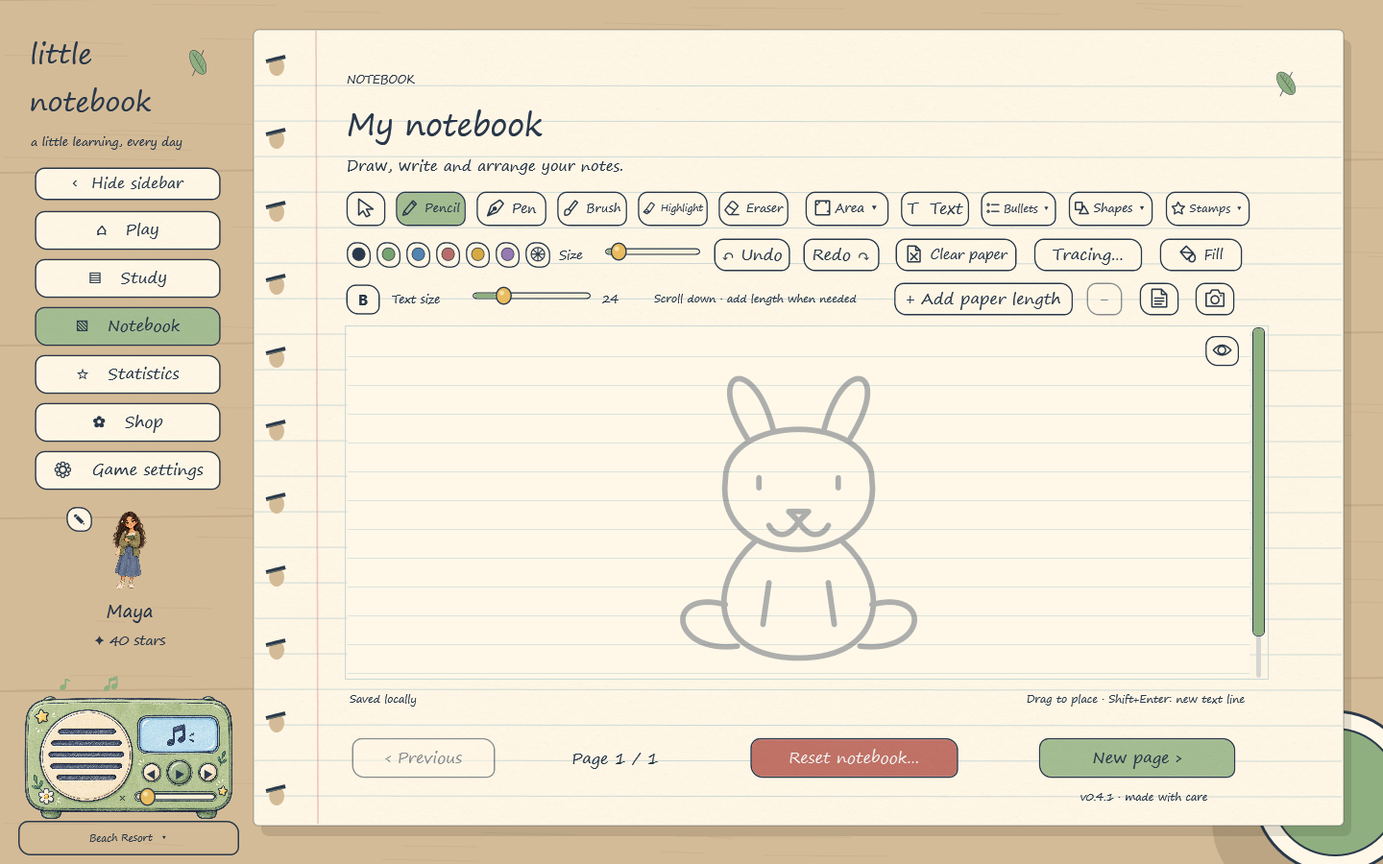
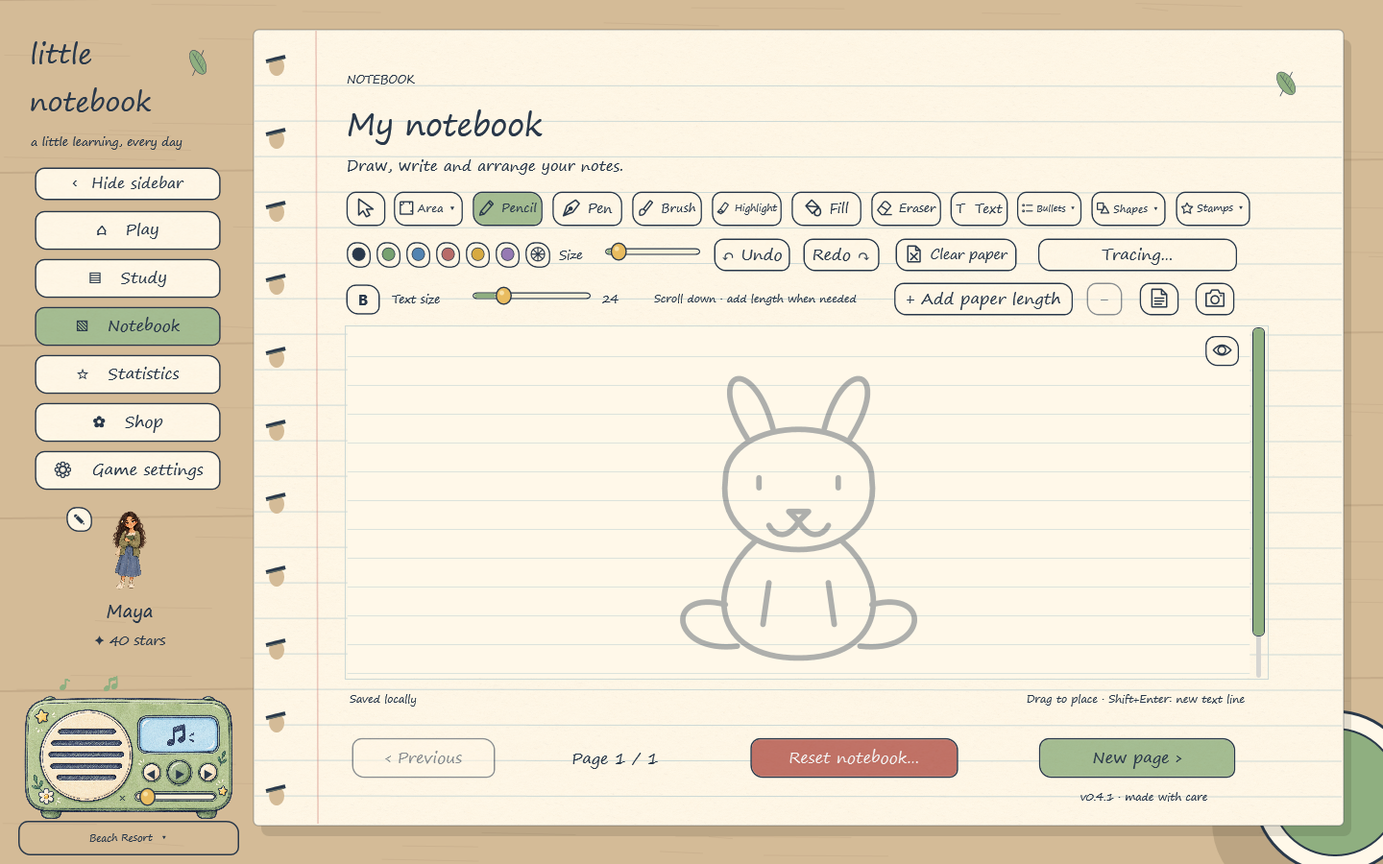
Preserve Play scrolling across controls and theme colours; refine notebook tools

Changed region(s): [[0.2812, 0.2178, 0.9062, 0.3111]]

diff --git a/tools/render_readme.cs b/tools/render_readme.cs
@@ -3,6 +3,12 @@ using System.Collections.Generic;
 using System.Linq;
 using System.Reflection;
 using System.Windows;
+using System.Windows.Automation;
+using System.Windows.Controls;
+using System.Windows.Ink;
+using System.Windows.Input;
+using System.Windows.Media;
+using System.Windows.Media.Imaging;
 using System.Windows.Threading;
 using LittleNotebook;
 
@@ -11,7 +17,64 @@ using LittleNotebook;
 static class ReadmeRenderer {
  static readonly BindingFlags Private = BindingFlags.Instance | BindingFlags.NonPublic;
  static void Set(MainWindow window, string name, object value) { typeof(MainWindow).GetField(name, Private).SetValue(window, value); }
- static void Call(MainWindow window, string name, params object[] values) { typeof(MainWindow).GetMethod(name, Private).Invoke(window, values); }
+ static object Get(MainWindow window,string name) { return typeof(MainWindow).GetField(name,Private).GetValue(window); }
+ static void Call(MainWindow window, string name, params object[] values) { typeof(MainWindow).GetMethods(Private).Single(m=>m.Name==name&&m.GetParameters().Length==values.Length).Invoke(window, values); }
+ static IEnumerable<T> Children<T>(DependencyObject root) where T:DependencyObject { for(int i=0;i<VisualTreeHelper.GetChildrenCount(root);i++){var child=VisualTreeHelper.GetChild(root,i);if(child is T)yield return (T)child;foreach(var nested in Children<T>(child))yield return nested;} }
+ static void Check(bool ok,string message) { if(!ok)throw new Exception(message); }
+ static void Click(Button button) { button.RaiseEvent(new RoutedEventArgs(Button.ClickEvent)); }
+ static Color ButtonColor(Button button) { var solid=button.Background as SolidColorBrush;if(solid!=null)return solid.Color;return ((SolidColorBrush)((GeometryDrawing)((DrawingGroup)((DrawingBrush)button.Background).Drawing).Children[0]).Brush).Color; }
+ static void CheckHomeControls(MainWindow window) {
+  foreach(string theme in new[]{"matcha","rose","sky","lavender","night"}) {
+   window.Profile.Settings.Theme=theme;window.Profile.Settings.Difficulty=3;Call(window,"Build");
+   var palette=new Palette(theme);Color expected=theme=="matcha"?Color.FromRgb(206,222,184):palette.Light;
+   var groups=(Dictionary<string,Dictionary<string,Button>>)Get(window,"questionTypeButtons");var body=(Canvas)Get(window,"body");
+   Check(groups.Values.SelectMany(x=>x.Values).All(b=>ButtonColor(b)==expected),"Question types do not follow theme: "+theme);
+   Check(ButtonColor(Children<Button>(body).Single(b=>Convert.ToString(b.Content)=="Mixed"))==expected,"Mixed does not follow theme: "+theme);
+   Check(ButtonColor(Children<Button>(body).Single(b=>Convert.ToString(b.Content)=="Start game  →"))==Color.FromRgb(139,255,22),"Start changed reference green");
+   Call(window,"Capture","qa-home-"+theme);
+  }
+  window.Profile.Settings.Theme="matcha";Call(window,"Build");window.UpdateLayout();
+  var scroll=(ScrollViewer)Get(window,"questionTypeScroll");scroll.ScrollToVerticalOffset(40);scroll.UpdateLayout();
+  Check(scroll.VerticalOffset==40,"Scroll test fixture did not move");
+  Action<Action> keep=action=>{action();var rebuilt=(ScrollViewer)Get(window,"questionTypeScroll");Check(Math.Abs(rebuilt.VerticalOffset-40)<.01,"Play control reset scroll before first render");window.Dispatcher.Invoke(new Action(()=>{}),DispatcherPriority.ApplicationIdle);Check(Math.Abs(rebuilt.VerticalOffset-40)<.01,"Play control changed scroll after layout");};
+  foreach(string name in new[]{"Easy","Medium","Hard","Mixed"}){string label=name;keep(()=>Click(Children<Button>((Canvas)Get(window,"body")).Single(b=>Convert.ToString(b.Content)==label)));}
+  keep(()=>Click(Children<Button>((Canvas)Get(window,"body")).Single(b=>AutomationProperties.GetName(b).StartsWith("Timer "))));
+  keep(()=>Click(Children<Button>((Canvas)Get(window,"body")).Single(b=>AutomationProperties.GetName(b).StartsWith("1 life:"))));
+  keep(()=>Call(window,"ToggleTopic","math"));keep(()=>Call(window,"ToggleTopic","mixed"));
+  keep(()=>{Call(window,"QuestionCountSettings");Click(Children<Button>((Canvas)Get(window,"overlay")).Single(b=>Convert.ToString(b.Content)=="15 questions"));});
+  keep(()=>Call(window,"ToggleSidebar"));keep(()=>Call(window,"ToggleSidebar"));
+  keep(()=>{Call(window,"RadioSelection");Call(window,"CloseModal");});
+  keep(()=>{Call(window,"Navigate","study");Call(window,"Navigate","home");});
+  scroll=(ScrollViewer)Get(window,"questionTypeScroll");scroll.ScrollToVerticalOffset(0);scroll.UpdateLayout();
+  window.Profile.Settings.Timer=true;window.Profile.Settings.SingleLife=false;window.Profile.Settings.HardSingleLife=null;window.Profile.Settings.RoundLength=10;
+  Console.WriteLine("PASS: all five theme palettes and 13 Play interactions retain scroll synchronously and after layout; no delayed scroll restore.");
+ }
+ static void CheckNotebookControls(MainWindow window) {
+  var body=(Canvas)Get(window,"body");var tools=(Dictionary<string,Button>)Get(window,"notebookTools");
+  var area=Children<Button>(body).Single(b=>AutomationProperties.GetName(b)=="Area menu");
+  Check(Canvas.GetLeft(tools["select"])<Canvas.GetLeft(area)&&Canvas.GetLeft(area)<Canvas.GetLeft(tools["pencil"]),"Area is not immediately after Select");
+  Check(Canvas.GetLeft(tools["highlighter"])<Canvas.GetLeft(tools["fill"])&&Canvas.GetLeft(tools["fill"])<Canvas.GetLeft(tools["eraser"]),"Fill is not immediately before Eraser");
+  Check(Canvas.GetTop(tools["fill"])==Canvas.GetTop(tools["pen"]),"Fill is outside drawing row");
+  Call(window,"NotebookColorWheel");window.UpdateLayout();var overlay=(Canvas)Get(window,"overlay");
+  var presets=Children<Button>(overlay).Where(b=>AutomationProperties.GetName(b).StartsWith("Preset colour: ")).ToList();
+  Check(presets.Count==12,"Missing extra colour presets");Click(presets.Single(b=>AutomationProperties.GetName(b)=="Preset colour: Pink"));
+  Check(Children<TextBox>(overlay).Single().Text=="#F4A8CB","Preset did not update colour controls");
+  Click(Children<Button>(overlay).Single(b=>Convert.ToString(b.Content)=="Use colour"));
+  Check(window.Profile.Settings.RecentColors.First()=="#FFF4A8CB","Preset did not enter recent colours");
+  Call(window,"NotebookColorWheel");Call(window,"Capture","qa-extra-colours");Call(window,"CloseModal");
+  var drawing=new DrawingVisual();using(var dc=drawing.RenderOpen()){dc.DrawRectangle(Brushes.LightSkyBlue,null,new Rect(0,0,240,160));dc.DrawEllipse(Brushes.White,new Pen(Brushes.DarkSlateGray,3),new Point(120,80),65,50);}
+  var bitmap=new RenderTargetBitmap(240,160,96,96,PixelFormats.Pbgra32);bitmap.Render(drawing);
+  Call(window,"EditImportedTracing",bitmap);window.UpdateLayout();overlay=(Canvas)Get(window,"overlay");
+  var photo=Children<Image>(overlay).Single();var ink=Children<SmoothInkCanvas>(overlay).Single();
+  var eye=Children<Button>(overlay).Single(b=>AutomationProperties.GetName(b)=="Show or hide original photo");
+  Check(photo.Visibility==Visibility.Collapsed,"Original photo should start hidden");int count=ink.Strokes.Count;Click(eye);
+  var surface=(Grid)photo.Parent;Check(photo.Visibility==Visibility.Visible&&surface.Children.IndexOf(photo)<surface.Children.IndexOf(ink),"Original photo is not beneath tracing");
+  Children<Slider>(overlay).Single(s=>s.Maximum==880).Value=480;
+  Check(photo.Width==ink.Width&&photo.Height==ink.Height&&photo.Width==480&&photo.Height==320,"Photo/tracing lost alignment during resize");
+  ink.Strokes.Add(new Stroke(new StylusPointCollection(new[]{new StylusPoint(10,10),new StylusPoint(30,30)})));
+  Click(eye);Check(photo.Visibility==Visibility.Collapsed&&ink.Strokes.Count==count+1,"Eye toggle discarded tracing edits");Click(eye);Call(window,"Capture","qa-original-photo");Call(window,"CloseModal");
+  Console.WriteLine("PASS: 10 focused notebook checks: tool ordering, colour presets/hex/recent colours, original-photo visibility, layer order, aligned resize and retained edits.");
+ }
  static void Scene(MainWindow window, string page, string image) { Set(window, "page", page); Call(window, "Build"); Call(window, "Capture", "public-" + image); }
  [STAThread] static int Main() {
   Diagnostics.Testing = true;
@@ -24,6 +87,7 @@ static class ReadmeRenderer {
     window.Profile.Settings.Music = false; window.Profile.Settings.Sound = false; window.Profile.Settings.Volume = 0;
     Scene(window, "welcome", "setup");
     Set(window, "selectedTopic", "mixed"); window.Profile.Settings.Difficulty = 3;
+    Set(window,"page","home");Call(window,"Build");CheckHomeControls(window);
     Scene(window, "home", "home");
     var bank = (QuestionBank)typeof(MainWindow).GetField("bank", Private).GetValue(window);
     var question = bank.Questions.First(q => q.Kind == "order" && q.Difficulty == 1);
@@ -33,6 +97,7 @@ static class ReadmeRenderer {
     window.Profile.Notebook = new List<NotebookPage> { new NotebookPage { Template = "rabbit-body" } };
     window.Profile.NotebookIndex = 0;
     Scene(window, "notebook", "notebook");
+    CheckNotebookControls(window);
     Console.WriteLine("Rendered setup, Play, gameplay and notebook with Maya.");
    } catch(Exception error) { Console.Error.WriteLine(error); Environment.ExitCode = 1; }
    finally { Set(window, "game", null); Set(window, "closing", true); window.Close(); }

diff --git a/src/MainWindow.cs b/src/MainWindow.cs
@@ -88,6 +88,7 @@ namespace LittleNotebook {
   void TypingFeedback(object sender,TextChangedEventArgs e){var input=e.OriginalSource as TextBox;if(input!=null&&input.IsKeyboardFocusWithin&&!input.IsReadOnly&&e.Changes.Any(change=>change.AddedLength>0||change.RemovedLength>0))audio.Typing();}
   Image Avatar(int n,double h,double w=double.NaN){return new Image{Source=CharacterArt.Get(n),Height=h,Width=w,Stretch=Stretch.Uniform};}
   void Build(){
+   RememberQuestionTypeScroll();questionTypeScroll=null;
    if(notebookPopup!=null)notebookPopup.IsOpen=false;
    FlushNotebook();notebookInk=null;
    modalEnabled.Clear();
@@ -157,7 +158,7 @@ namespace LittleNotebook {
   }
   string CategoryName(string key){switch(key){case "all":return T("All","الكل");case "vocabulary":return T("Vocabulary","المفردات");case "spelling":return T("Spelling","الإملاء");case "sentences":return T("Sentences","الجمل");case "listening":return T("Listening","الاستماع");case "word-pairs":return T("Word pairs","أزواج الكلمات");case "word-search":return T("Word search","الكلمات المخفية");case "memory":return T("Memory","الذاكرة");case "patterns":return T("Patterns","الأنماط");case "logic":return T("Logic","المنطق");case "science":return T("Science","العلوم");case "nature":return T("Nature","الطبيعة");case "world":return T("World","العالم");case "everyday":return T("Everyday","الحياة اليومية");case "addition":return T("Addition","الجمع");case "subtraction":return T("Subtraction","الطرح");case "multiplication":return T("Multiplication","الضرب");case "division":return T("Division","القسمة");case "word-problems":return T("Word problems","مسائل لفظية");case "mixed-operations":return T("Mixed operations","عمليات مختلطة");default:return System.Globalization.CultureInfo.InvariantCulture.TextInfo.ToTitleCase(key.Replace('-',' '));}}
   ScrollViewer questionTypeScroll;double questionTypeScrollOffset;Dictionary<string,Dictionary<string,Button>> questionTypeButtons=new Dictionary<string,Dictionary<string,Button>>();
-  Color SoftSelectionColor(){return Profile.Settings.Theme=="matcha"?Color.FromRgb(206,222,184):Color.FromRgb(195,178,215);}
+  Color SoftSelectionColor(){return Profile.Settings.Theme=="matcha"?Color.FromRgb(206,222,184):p.Light;}
   void StyleQuestionTypeButton(Button button,bool selected){button.Background=Sketch.Textured(selected?SoftSelectionColor():p.Paper);button.Foreground=B(p.Ink);button.FontWeight=selected?FontWeights.SemiBold:FontWeights.Normal;}
   void RefreshQuestionTypeHighlights(){foreach(var topic in questionTypeButtons)foreach(var entry in topic.Value)StyleQuestionTypeButton(entry.Value,TypeSelected(topic.Key,entry.Key));}
   Color DifficultyColor(int level){return new[]{Color.FromRgb(139,185,193),Color.FromRgb(224,188,112),Color.FromRgb(208,144,143),SoftSelectionColor()}[level];}
@@ -179,7 +180,9 @@ namespace LittleNotebook {
    var icons=new[]{"book","math","brain","sun"};for(int i=0;i<4;i++){string topic=PlayTopics[i];bool selected=SelectedTopics.Contains(topic);var button=Button("",()=>ToggleTopic(topic),367,62,selected);var c=new Canvas{Width=333,Height=51};Put(c,new Sketch(icons[i],selected?p.OnAccent():p,39,39),Ar?282:6,4);Label(c,Topic(topic),Ar?6:62,9,21,265).Foreground=B(selected?p.AccentInk:p.Ink);button.Content=c;AutomationProperties.SetName(button,Topic(topic));Put(body,button,98+(Ar?1-i%2:i%2)*394,202+(i/2)*75);}
    Label(body,T("Question types","أنواع الأسئلة"),99,352,15,760);
    var groups=new StackPanel{Width=750};foreach(string item in SelectedTopics){string topic=item;var topicButtons=new Dictionary<string,Button>();questionTypeButtons[topic]=topicButtons;var row=new StackPanel{Width=742,Margin=new Thickness(0,0,0,8)};row.Children.Add(Text(Topic(topic),15,730));var types=new WrapPanel{Width=736,FlowDirection=Ar?FlowDirection.RightToLeft:FlowDirection.LeftToRight};foreach(string key in QuestionCatalog.Categories(bank,topic,Profile.Settings.Difficulty)){string category=key,label=CategoryName(key);var button=Button(label,()=>ToggleTopicCategory(topic,category),Math.Max(62,Math.Min(153,label.Length*8+24)),32,TypeSelected(topic,key));button.Margin=new Thickness(0,0,5,5);button.FontSize=14*Profile.Settings.TextScale;StyleQuestionTypeButton(button,TypeSelected(topic,key));topicButtons[key]=button;types.Children.Add(button);}row.Children.Add(types);groups.Children.Add(row);}
-   double height=SelectedTopics.Length==1?100:153;var scroll=new ScrollViewer{Width=773,Height=height,Content=groups,VerticalScrollBarVisibility=ScrollBarVisibility.Auto,HorizontalScrollBarVisibility=ScrollBarVisibility.Disabled};StylePaperScroll(scroll);Put(body,scroll,99,381);questionTypeScroll=scroll;double restoreOffset=questionTypeScrollOffset;Dispatcher.BeginInvoke(new Action(()=>{if(questionTypeScroll==scroll)scroll.ScrollToVerticalOffset(restoreOffset);}),DispatcherPriority.Loaded);
+   double height=SelectedTopics.Length==1?100:153;var scroll=new ScrollViewer{Width=773,Height=height,Content=groups,VerticalScrollBarVisibility=ScrollBarVisibility.Auto,HorizontalScrollBarVisibility=ScrollBarVisibility.Disabled};StylePaperScroll(scroll);Put(body,scroll,99,381);questionTypeScroll=scroll;
+   // Restore before the rebuilt screen can render, rather than jumping after Loaded.
+   scroll.ApplyTemplate();scroll.Measure(new Size(773,height));scroll.Arrange(new Rect(0,0,773,height));scroll.UpdateLayout();scroll.ScrollToVerticalOffset(questionTypeScrollOffset);scroll.UpdateLayout();
    double controlsY=381+height+14;for(int i=0;i<4;i++){int level=i;bool selected=Profile.Settings.Difficulty==i;var difficulty=Button(Difficulty(i),()=>{RememberQuestionTypeScroll();Profile.Settings.Difficulty=level;Save();Build();},129,42);difficulty.Background=Sketch.Textured(selected?DifficultyColor(i):PaleDifficulty(i));difficulty.FontWeight=selected?FontWeights.Bold:FontWeights.Normal;Put(body,difficulty,Ar?625-i*139:196+i*139,controlsY);}
    Put(body,TimerToggle(),Ar?640:128,controlsY+57);Put(body,PaperToggle(T("1 life","حياة واحدة"),Profile.Settings.OneLife(),()=>{if(Profile.Settings.Difficulty==2)Profile.Settings.HardSingleLife=!Profile.Settings.OneLife();else Profile.Settings.SingleLife=!Profile.Settings.SingleLife;Save();Build();}),Ar?425:343,controlsY+57);Btn(body,QuestionCountText()+"  ▾",Ar?141:551,controlsY+57,QuestionCountSettings,266,43);
    Label(body,(Profile.Settings.OneLife()?T("1 life","حياة واحدة"):T("3 lives","3 محاولات"))+"  ·  "+QuestionCountText(),99,controlsY+106,14,760).TextAlignment=TextAlignment.Center;var start=Button(T("Start game  →","ابدأ اللعبة  ←"),StartGame,344,50,true);start.Background=new SolidColorBrush(Color.FromRgb(139,255,22));start.Foreground=B(Color.FromRgb(41,56,74));Put(body,start,307,controlsY+135);

diff --git a/src/TraceImport.cs b/src/TraceImport.cs
@@ -2,6 +2,7 @@ using System;
 using System.Collections.Generic;
 using System.Linq;
 using System.Windows;
+using System.Windows.Automation;
 using System.Windows.Controls;
 using System.Windows.Ink;
 using System.Windows.Input;
@@ -30,10 +31,13 @@ namespace LittleNotebook {
    double width=Math.Min(820,image.PixelWidth),threshold=45;double height=width*image.PixelHeight/image.PixelWidth;var originals=PhotoTracing.Extract(image,threshold,p.Ink);var strokes=originals.Clone();strokes.Transform(new Matrix(width/image.PixelWidth,0,0,width/image.PixelWidth,0,0),false);SmoothInkCanvas ink=null;var undo=new Stack<string>();bool changing=false;
    Modal(T("Adjust imported tracing","تعديل القالب المستورد"),c=>{
     Label(c,T("Adjust detail and size. Use the pen or eraser before placing.","اضبط التفاصيل والحجم. عدّل بالقلم والممحاة قبل الوضع."),94,102,16,610);
-    var surface=new Grid{Width=width,Height=height,Background=B(p.Paper)};ink=new SmoothInkCanvas{Width=width,Height=height,Strokes=strokes,Background=Brushes.Transparent,DefaultDrawingAttributes=new DrawingAttributes{Color=p.Ink,Width=1.6,Height=1.6,FitToCurve=true,IgnorePressure=true},Opacity=.60,EraserShape=new EllipseStylusShape(18,18)};surface.Children.Add(ink);var scroll=new ScrollViewer{Width=650,Height=357,Content=surface,HorizontalScrollBarVisibility=ScrollBarVisibility.Auto,VerticalScrollBarVisibility=ScrollBarVisibility.Auto};StylePaperScroll(scroll);Put(c,scroll,82,150);
+    var surface=new Grid{Width=width,Height=height,Background=B(p.Paper)};
+    var photo=new Image{Source=image,Width=width,Height=height,Stretch=Stretch.Fill,Opacity=.65,Visibility=Visibility.Collapsed,IsHitTestVisible=false};surface.Children.Add(photo);
+    ink=new SmoothInkCanvas{Width=width,Height=height,Strokes=strokes,Background=Brushes.Transparent,DefaultDrawingAttributes=new DrawingAttributes{Color=p.Ink,Width=1.6,Height=1.6,FitToCurve=true,IgnorePressure=true},Opacity=.60,EraserShape=new EllipseStylusShape(18,18)};surface.Children.Add(ink);var scroll=new ScrollViewer{Width=650,Height=357,Content=surface,HorizontalScrollBarVisibility=ScrollBarVisibility.Auto,VerticalScrollBarVisibility=ScrollBarVisibility.Auto};StylePaperScroll(scroll);Put(c,scroll,82,150);
+    Button originalEye=null;originalEye=NotebookIconButton("eye",T("Show or hide original photo","إظهار الصورة الأصلية أو إخفاؤها"),()=>{bool show=photo.Visibility!=Visibility.Visible;photo.Visibility=show?Visibility.Visible:Visibility.Collapsed;ink.Opacity=show?1:.60;originalEye.Background=Sketch.Textured(show?p.Accent:p.Paper);originalEye.ToolTip=show?T("Hide original photo","إخفاء الصورة الأصلية"):T("Show original photo","إظهار الصورة الأصلية");},38,34);originalEye.ToolTip=T("Show original photo","إظهار الصورة الأصلية");Put(c,originalEye,675,158);
     ink.Starting+=()=>undo.Push(EncodeInk(ink.Strokes));Btn(c,T("Pen","قلم"),94,523,()=>ink.EditingMode=InkCanvasEditingMode.Ink,107,37,true);Btn(c,T("Eraser","ممحاة"),214,523,()=>ink.EditingMode=InkCanvasEditingMode.EraseByPoint,119,37);Btn(c,T("Undo","تراجع"),347,523,()=>{if(undo.Count>0)ink.Strokes=DecodeInk(undo.Pop());},108,37);
     Label(c,T("Detail","التفاصيل"),94,580,15,100);var detail=PaperSlider(10,130,threshold,203);Put(c,detail,175,573);Label(c,T("Width","العرض"),405,580,15,88);var scale=PaperSlider(120,880,width,194);Put(c,scale,492,573);
-    var regenerate=new DispatcherTimer{Interval=TimeSpan.FromMilliseconds(300)};regenerate.Tick+=(s,e)=>{regenerate.Stop();if(overlay.Children.Count==0)return;undo.Push(EncodeInk(ink.Strokes));var outlines=PhotoTracing.Extract(image,detail.Value,p.Ink);outlines.Transform(new Matrix(width/image.PixelWidth,0,0,width/image.PixelWidth,0,0),false);ink.Strokes=outlines;};detail.ValueChanged+=(s,e)=>{regenerate.Stop();regenerate.Start();};scale.ValueChanged+=(s,e)=>{if(changing)return;double next=scale.Value;ink.Strokes.Transform(new Matrix(next/width,0,0,next/width,0,0),false);width=next;height=width*image.PixelHeight/image.PixelWidth;surface.Width=ink.Width=width;surface.Height=ink.Height=height;};
+    var regenerate=new DispatcherTimer{Interval=TimeSpan.FromMilliseconds(300)};regenerate.Tick+=(s,e)=>{regenerate.Stop();if(overlay.Children.Count==0)return;undo.Push(EncodeInk(ink.Strokes));var outlines=PhotoTracing.Extract(image,detail.Value,p.Ink);outlines.Transform(new Matrix(width/image.PixelWidth,0,0,width/image.PixelWidth,0,0),false);ink.Strokes=outlines;};detail.ValueChanged+=(s,e)=>{regenerate.Stop();regenerate.Start();};scale.ValueChanged+=(s,e)=>{if(changing)return;double next=scale.Value;ink.Strokes.Transform(new Matrix(next/width,0,0,next/width,0,0),false);width=next;height=width*image.PixelHeight/image.PixelWidth;surface.Width=ink.Width=photo.Width=width;surface.Height=ink.Height=photo.Height=height;};
     Label(c,T("Changing detail regenerates the outline; make pen edits afterwards.","تغيير التفاصيل يعيد إنشاء القالب؛ أضف تعديلات القلم بعد ذلك."),94,626,13,595);
     Btn(c,T("Cancel","إلغاء"),100,682,()=>{regenerate.Stop();NotebookTemplates();},266,47);Btn(c,T("Place tracing","وضع القالب"),399,682,()=>{regenerate.Stop();CloseModal();BeginNotebookChange();CurrentNotebookPage.Template="imported";CurrentNotebookPage.TraceInk=EncodeInk(ink.Strokes);CurrentNotebookPage.TraceWidth=width;CurrentNotebookPage.TraceHeight=height;CurrentNotebookPage.TraceVisible=true;CurrentNotebookPage.Height=Math.Min(12000,Math.Max(CurrentNotebookPage.Height,height+70));ResizeNotebookSurface();RefreshNotebookGuide();CommitNotebookChange();},296,47,true);
    },779);

diff --git a/src/NotebookSurface.cs b/src/NotebookSurface.cs
@@ -17,22 +17,21 @@ namespace LittleNotebook {
    ProfileFeatures.Normalize(Profile);Header(T("NOTEBOOK","دفتر الرسم"),paperDesignDraft!=null?T("Edit background paper","تعديل ورقة الخلفية"):T("My notebook","دفتري"),T("Draw, write and arrange your notes.","ارسم واكتب ورتّب ملاحظاتك."));
    if(notebookPageId!=CurrentNotebookPage.Id){notebookUndo.Clear();notebookRedo.Clear();}notebookPageId=CurrentNotebookPage.Id;
    notebookEditing=null;notebookTools.Clear();
-   string[] tools={"pencil","pen","brush","highlighter","eraser"};string[] names={T("Pencil","رصاص"),T("Pen","قلم"),T("Brush","فرشاة"),T("Highlight","تظليل"),T("Eraser","ممحاة")};
-   for(int i=0;i<tools.Length;i++){string tool=tools[i];var b=NotebookIconButton(tool,names[i],()=>ConfigureNotebookTool(tool),79,39);notebookTools[tool]=b;Put(body,b,58+i*84,126);}
+   string[] tools={"pencil","pen","brush","highlighter","fill","eraser"};string[] names={T("Pencil","رصاص"),T("Pen","قلم"),T("Brush","فرشاة"),T("Highlight","تظليل"),T("Fill","تعبئة"),T("Eraser","ممحاة")};
+   for(int i=0;i<tools.Length;i++){string tool=tools[i];var b=NotebookIconButton(tool,names[i],()=>ConfigureNotebookTool(tool),79,39);notebookTools[tool]=b;Put(body,b,138+i*83,126);}
    var select=NotebookIconButton("cursor",T("Select","تحديد"),()=>ConfigureNotebookTool("select"),44,39);notebookTools["select"]=select;Put(body,select,8,126);
-   Put(body,NotebookDropdown("selection",T("Area","منطقة"),"selection",94),484,126);
-   var text=Button(T("T  Text","T نص"),()=>ConfigureNotebookTool("text"),77,39);notebookTools["text"]=text;Put(body,text,584,126);
-   Put(body,NotebookDropdown("bullet",T("Bullets","تعداد"),"bullet",85),667,126);
-   Put(body,NotebookDropdown("shape",T("Shapes","أشكال"),"shapes",95),758,126);
-   Put(body,NotebookDropdown("stamp",T("Stamps","طوابع"),"stamps",95),859,126);
+   Put(body,NotebookDropdown("selection",T("Area","منطقة"),"selection",78),56,126);
+   var text=Button(T("T  Text","T نص"),()=>ConfigureNotebookTool("text"),65,39);notebookTools["text"]=text;Put(body,text,636,126);
+   Put(body,NotebookDropdown("bullet",T("Bullets","تعداد"),"bullet",73),705,126);
+   Put(body,NotebookDropdown("shape",T("Shapes","أشكال"),"shapes",84),782,126);
+   Put(body,NotebookDropdown("stamp",T("Stamps","طوابع"),"stamps",84),870,126);
    Color[] colors={Color.FromRgb(41,56,74),Color.FromRgb(119,161,112),Color.FromRgb(83,132,177),Color.FromRgb(184,108,105),Color.FromRgb(215,170,65),Color.FromRgb(150,122,179)};
    for(int i=0;i<colors.Length;i++){Color color=colors[i];var b=Button("",()=>{notebookColor=color;ConfigureNotebookTool(notebookTool);},27,29);b.Content=new Ellipse{Width=18,Height=18,Fill=B(color),Stroke=B(p.Ink),StrokeThickness=1};AutomationProperties.SetName(b,T("Drawing colour ","لون الرسم ")+(i+1));Put(body,b,9+i*31,179);}
    Put(body,NotebookIconButton("colors",T("Custom colour wheel","عجلة الألوان"),NotebookColorWheel,28,29),195,179);
    Label(body,T("Size","الحجم"),231,182,14,45);var size=PaperSlider(1,30,notebookSize,99);AutomationProperties.SetName(size,T("Drawing size","حجم الرسم"));size.ValueChanged+=(s,e)=>{notebookSize=size.Value;ConfigureNotebookTool(notebookTool);};Put(body,size,279,176);
    Btn(body,T("↶ Undo","↶ تراجع"),389,175,()=>NotebookHistory(false),86,37);Btn(body,T("Redo ↷","إعادة ↷"),482,175,()=>NotebookHistory(true),86,37);
    Put(body,NotebookIconButton("clear",T("Clear paper","مسح الصفحة"),ClearNotebookPage,137,37),576,175);
-   Btn(body,T("Tracing…","تتبّع…"),721,175,NotebookTemplates,122,37);
-   var fill=NotebookIconButton("fill",T("Fill","تعبئة"),()=>ConfigureNotebookTool("fill"),93,37);notebookTools["fill"]=fill;Put(body,fill,853,175);
+   Btn(body,T("Tracing…","تتبّع…"),721,175,NotebookTemplates,225,37);
    notebookTextTools=new Canvas{Width=310,Height=37};Put(body,notebookTextTools,8,223);
    notebookBoldButton=Button("B",ToggleNotebookBold,38,34);notebookBoldButton.FontWeight=FontWeights.Bold;notebookBoldButton.ToolTip=T("Bold text","نص عريض");Put(notebookTextTools,notebookBoldButton,0,0);
    Label(notebookTextTools,T("Text size","حجم النص"),49,6,13,80);notebookFontSlider=PaperSlider(10,72,notebookFontSize,123);AutomationProperties.SetName(notebookFontSlider,T("Text font size","حجم خط النص"));notebookFontSlider.ValueChanged+=(s,e)=>ChangeNotebookFontSize(notebookFontSlider.Value);Put(notebookTextTools,notebookFontSlider,133,-1);notebookFontLabel=Label(notebookTextTools,((int)notebookFontSize).ToString(),268,6,13,45,true);

diff --git a/src/NotebookRefinements.cs b/src/NotebookRefinements.cs
@@ -2,6 +2,7 @@ using System;
 using System.Collections.Generic;
 using System.Linq;
 using System.Windows;
+using System.Windows.Automation;
 using System.Windows.Controls;
 using System.Windows.Ink;
 using System.Windows.Input;
@@ -47,9 +48,15 @@ namespace LittleNotebook {
     var wheel=new HueWheel();wheel.SetColor(pending);Put(c,wheel,105,110);var swatch=new Border{Width=175,Height=86,CornerRadius=new CornerRadius(10),BorderBrush=B(p.Ink),BorderThickness=new Thickness(1.3),Background=B(pending)};Put(c,swatch,415,119);
     Label(c,T("Hex colour","رمز اللون"),416,224,17,230);var hex=new TextBox{Text="#"+pending.R.ToString("X2")+pending.G.ToString("X2")+pending.B.ToString("X2"),Width=190,Height=42,FontFamily=new FontFamily("Segoe Print"),FontSize=20,Background=B(p.Paper),Foreground=B(p.Ink),BorderBrush=B(p.Ink),Padding=new Thickness(7,3,7,3)};Put(c,hex,415,259);
     Label(c,T("Brightness","السطوع"),99,354,17,200);var brightness=PaperSlider(0,1,wheel.Value,464);Put(c,brightness,228,348);bool syncing=false;Action refresh=()=>{pending=wheel.Selected;swatch.Background=B(pending);syncing=true;hex.Text="#"+pending.R.ToString("X2")+pending.G.ToString("X2")+pending.B.ToString("X2");syncing=false;};wheel.Changed+=color=>refresh();brightness.ValueChanged+=(s,e)=>{wheel.Value=brightness.Value;refresh();};hex.TextChanged+=(s,e)=>{if(syncing||hex.Text.Length!=7)return;try{pending=(Color)ColorConverter.ConvertFromString(hex.Text);wheel.SetColor(pending);swatch.Background=B(pending);syncing=true;brightness.Value=wheel.Value;syncing=false;}catch{}};
-    Label(c,T("Recent colours","الألوان الأخيرة"),100,403,18,590);for(int i=0;i<Profile.Settings.RecentColors.Count&&i<12;i++){string value=Profile.Settings.RecentColors[i];var button=Button("",()=>{try{wheel.SetColor((Color)ColorConverter.ConvertFromString(value));brightness.Value=wheel.Value;refresh();}catch{}},37,34);button.Background=(Brush)new BrushConverter().ConvertFromString(value);button.ToolTip=value;Put(c,button,100+i*46,447);}
-    Btn(c,T("Cancel","إلغاء"),104,528,CloseModal,265,49);Btn(c,T("Use colour","استخدام اللون"),399,528,()=>{string value=pending.ToString();Profile.Settings.RecentColors.Remove(value);Profile.Settings.RecentColors.Insert(0,value);Profile.Settings.RecentColors=Profile.Settings.RecentColors.Take(12).ToList();Save();confirm(pending);},293,49,true);
-   },628);
+    Action<Color> pick=color=>{wheel.SetColor(color);brightness.Value=wheel.Value;refresh();};
+    Label(c,T("More colours","ألوان إضافية"),100,402,18,590);
+    Color[] presets={Colors.White,Colors.Black,Color.FromRgb(145,145,145),Color.FromRgb(246,192,153),Color.FromRgb(242,133,57),Color.FromRgb(244,133,128),Color.FromRgb(244,168,203),Color.FromRgb(198,77,147),Color.FromRgb(199,179,230),Color.FromRgb(57,183,186),Color.FromRgb(170,221,196),Color.FromRgb(139,94,60)};
+    string[] presetNames={T("White","أبيض"),T("Black","أسود"),T("Grey","رمادي"),T("Peach","خوخي"),T("Orange","برتقالي"),T("Coral","مرجاني"),T("Pink","وردي"),T("Magenta","أرجواني"),T("Lilac","ليلكي"),T("Turquoise","فيروزي"),T("Mint","نعناعي"),T("Brown","بني")};
+    for(int i=0;i<presets.Length;i++){Color color=presets[i];var button=Button("",()=>pick(color),37,34);button.Background=B(color);button.ToolTip=presetNames[i];AutomationProperties.SetName(button,T("Preset colour: ","لون جاهز: ")+presetNames[i]);Put(c,button,100+i*46,443);}
+    Label(c,T("Recent colours","الألوان الأخيرة"),100,495,18,590);for(int i=0;i<Profile.Settings.RecentColors.Count&&i<12;i++){string value=Profile.Settings.RecentColors[i];var button=Button("",()=>{try{pick((Color)ColorConverter.ConvertFromString(value));}catch{}},37,34);button.Background=(Brush)new BrushConverter().ConvertFromString(value);button.ToolTip=value;AutomationProperties.SetName(button,T("Recent colour: ","لون أخير: ")+value);Put(c,button,100+i*46,535);}
+    if(Profile.Settings.RecentColors.Count==0)Label(c,T("Colours you use will appear here.","ستظهر الألوان التي تستخدمها هنا."),105,539,14,550);
+    Btn(c,T("Cancel","إلغاء"),104,608,CloseModal,265,49);Btn(c,T("Use colour","استخدام اللون"),399,608,()=>{string value=pending.ToString();Profile.Settings.RecentColors.Remove(value);Profile.Settings.RecentColors.Insert(0,value);Profile.Settings.RecentColors=Profile.Settings.RecentColors.Take(12).ToList();Save();confirm(pending);},293,49,true);
+   },708);
   }
  }
 }

diff --git a/tools/publish_release.py b/tools/publish_release.py
@@ -1,6 +1,6 @@
 """Publish an already tested release. Uses GitHub CLI or Git Credential Manager, never prints credentials."""
 from pathlib import Path
-import argparse, json, subprocess, urllib.request, urllib.error, mimetypes
+import argparse, json, subprocess, urllib.request, urllib.error, mimetypes, hashlib
 root=Path(__file__).resolve().parent.parent
 parser=argparse.ArgumentParser();parser.add_argument('--publish',action='store_true');args=parser.parse_args()
 manifest=json.loads((root/'releases/update-manifest.json').read_text(encoding='utf-8'))
@@ -11,16 +11,22 @@ token=values.get('password');assert token,'No GitHub credential available'
 def api(url,body=None,method=None,content_type='application/json'):
  data=json.dumps(body).encode() if isinstance(body,dict) else body
  request=urllib.request.Request(url,data=data,method=method,headers={'Authorization':f'Bearer {token}','User-Agent':'LittleNotebook-release','Accept':'application/vnd.github+json','Content-Type':content_type,'X-GitHub-Api-Version':'2022-11-28'})
- with urllib.request.urlopen(request,timeout=300) as response:return json.load(response)
+ with urllib.request.urlopen(request,timeout=300) as response:return None if response.status==204 else json.load(response)
 try:release=api(base+f'/releases/tags/v{version}')
 except urllib.error.HTTPError as error:
  if error.code!=404:raise
- release=api(base+'/releases',dict(tag_name='v'+version,name='Little Notebook '+version,draft=True,body=(root/'RELEASE_NOTES.md').read_text(encoding='utf-8') if (root/'RELEASE_NOTES.md').exists() else 'Little Notebook '+version+'. Download the setup installer below.'))
+ # GitHub's tag endpoint may omit drafts until their tag is created at publication.
+ drafts=[r for r in api(base+'/releases?per_page=100') if r['tag_name']=='v'+version and r['draft']]
+ release=max(drafts,key=lambda r:len(r['assets'])) if drafts else api(base+'/releases',dict(tag_name='v'+version,name='Little Notebook '+version,draft=True,body=(root/'RELEASE_NOTES.md').read_text(encoding='utf-8') if (root/'RELEASE_NOTES.md').exists() else 'Little Notebook '+version+'. Download the setup installer below.'))
 files=[root/f'releases/LittleNotebook-Setup-{version}.exe',root/'releases/update-manifest.json']+sorted((root/'releases/update-packs').glob('*.zip'))
-existing={asset['name'] for asset in release['assets']}
+existing={asset['name']:asset for asset in release['assets']}
 for path in files:
- if path.name in existing:continue
+ if path.name in existing:
+  asset=existing[path.name]
+  if asset['size']==path.stat().st_size and asset.get('digest')=='sha256:'+hashlib.sha256(path.read_bytes()).hexdigest():continue
+  if not release['draft']:raise RuntimeError('Refusing to change an already published asset: '+path.name)
+  api(base+f"/releases/assets/{asset['id']}",method='DELETE')
  print('Uploading',path.name,flush=True)
  api(release['upload_url'].split('{')[0]+'?name='+path.name,path.read_bytes(),'POST',mimetypes.guess_type(path.name)[0] or 'application/octet-stream')
-if args.publish:release=api(base+f"/releases/{release['id']}",dict(draft=False),'PATCH')
+if args.publish:release=api(base+f"/releases/{release['id']}",dict(draft=False,body=(root/'RELEASE_NOTES.md').read_text(encoding='utf-8') if (root/'RELEASE_NOTES.md').exists() else release['body']),'PATCH')
 print(('Published: ' if args.publish else 'Draft: ')+release['html_url'])
